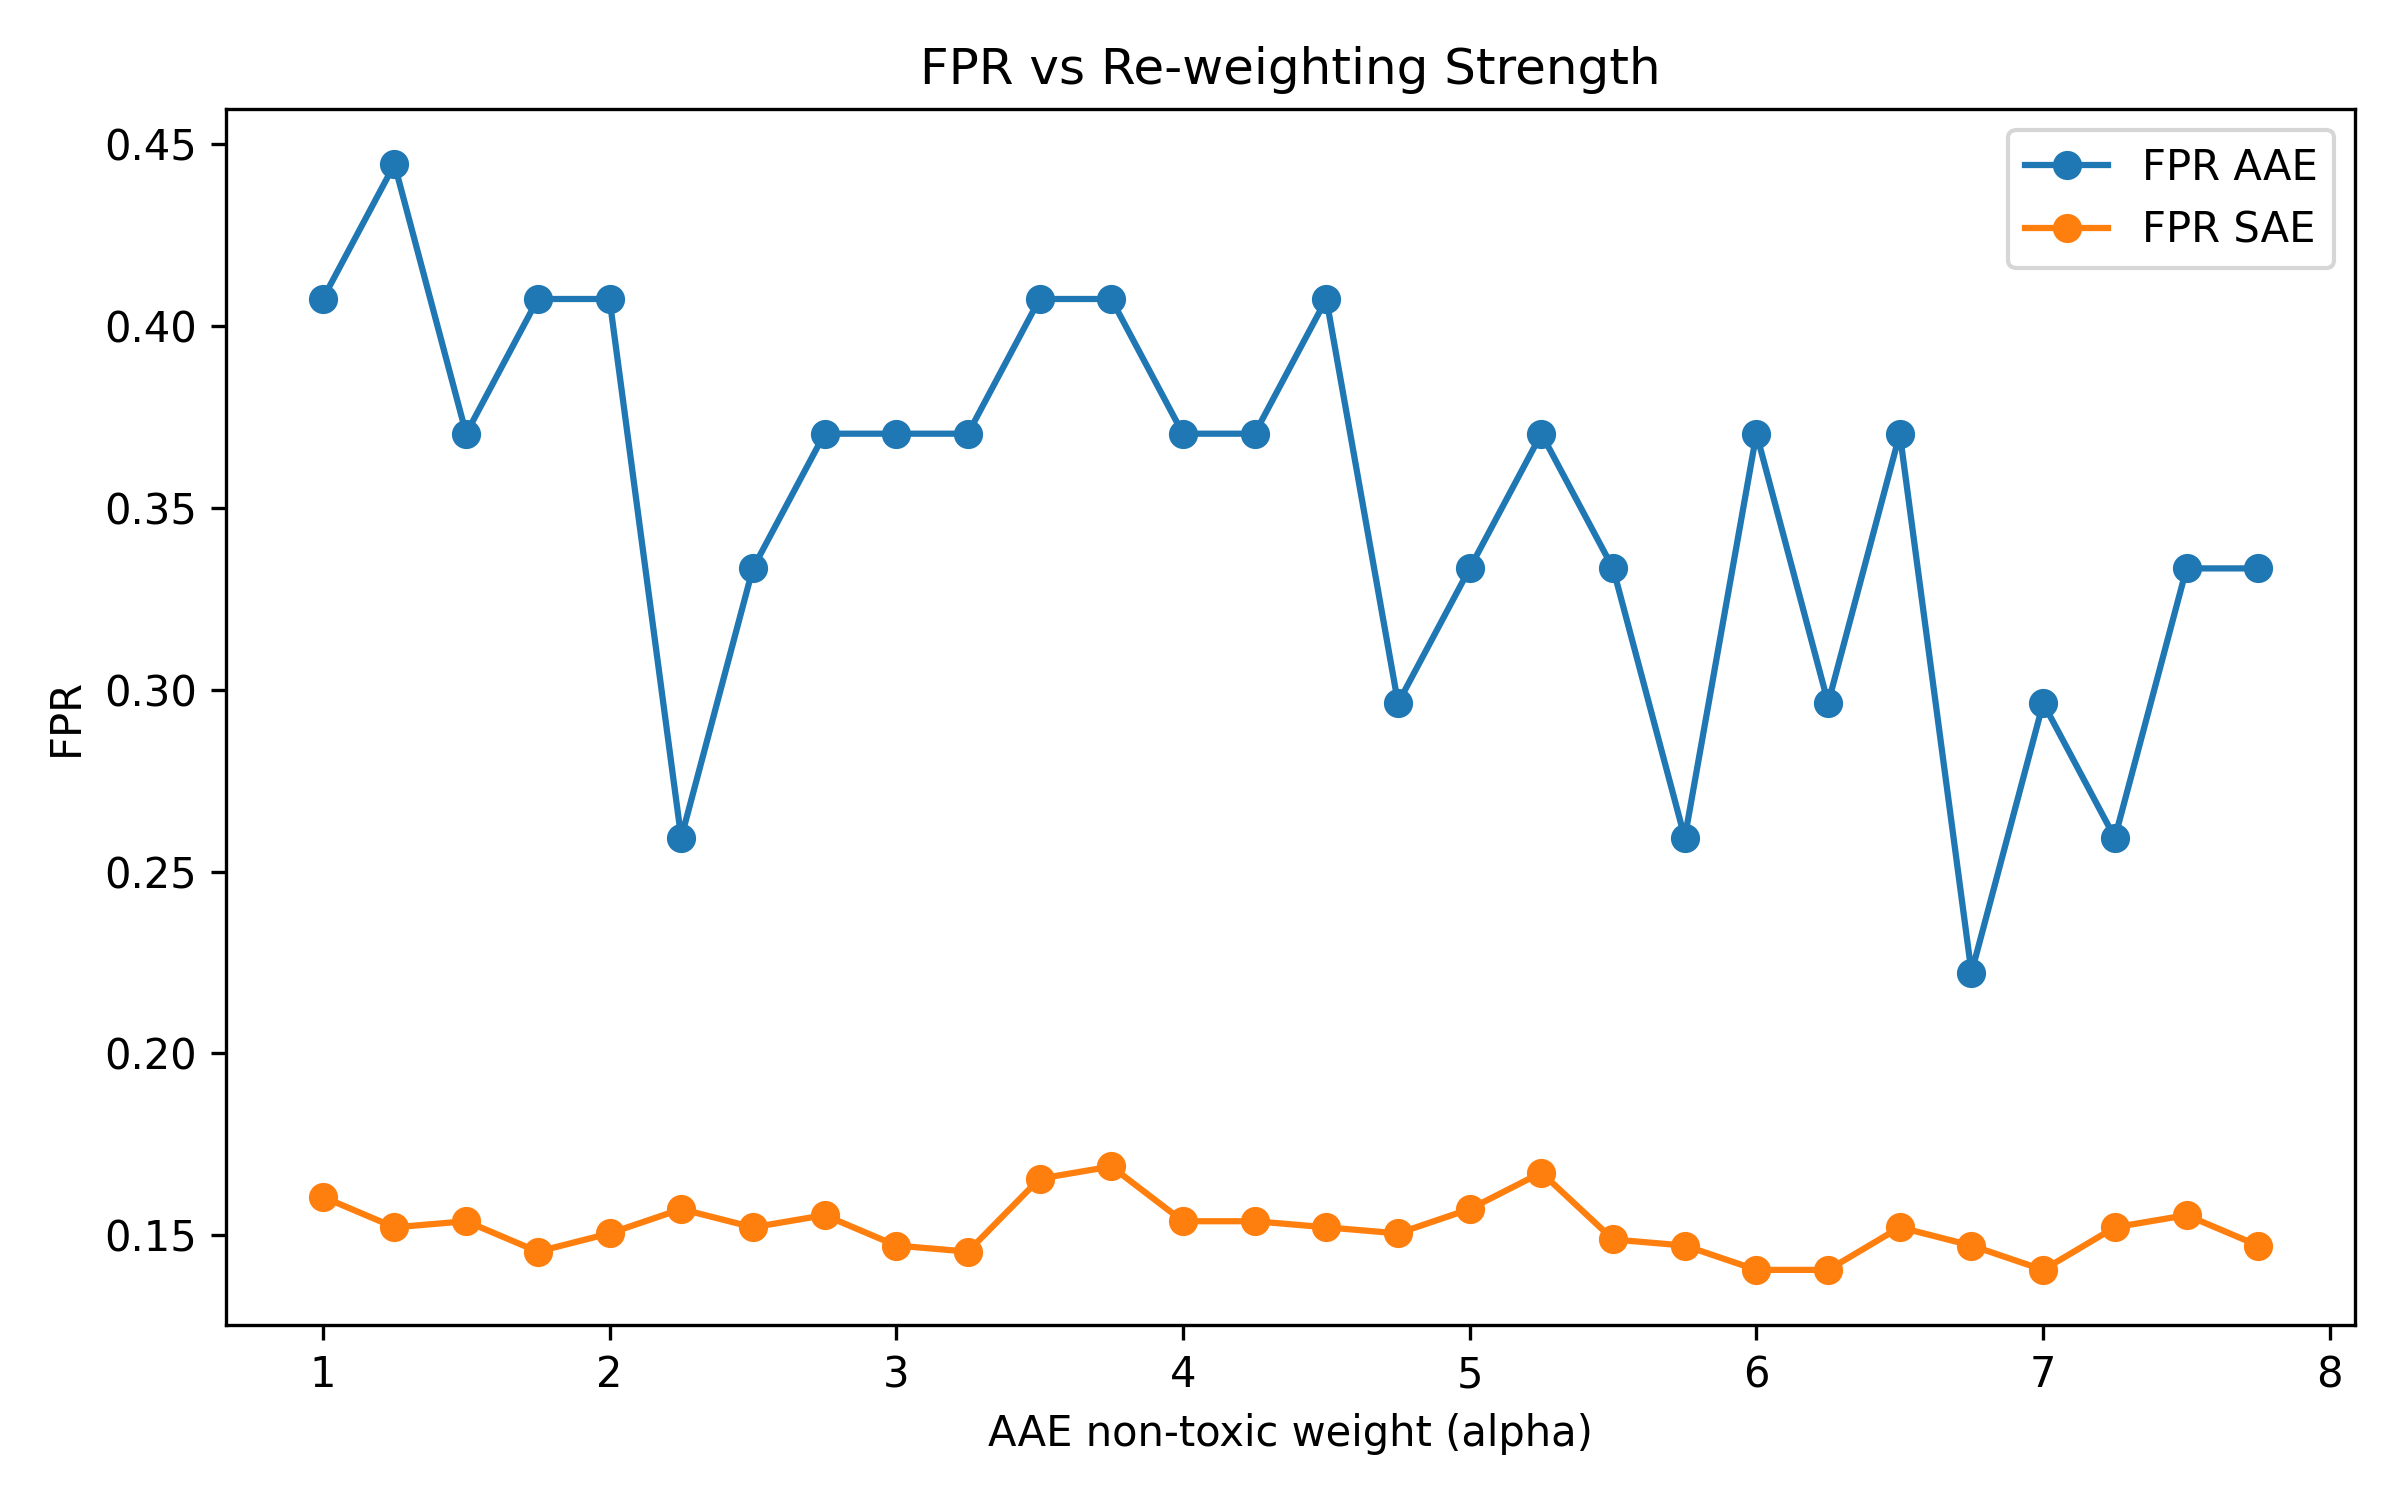
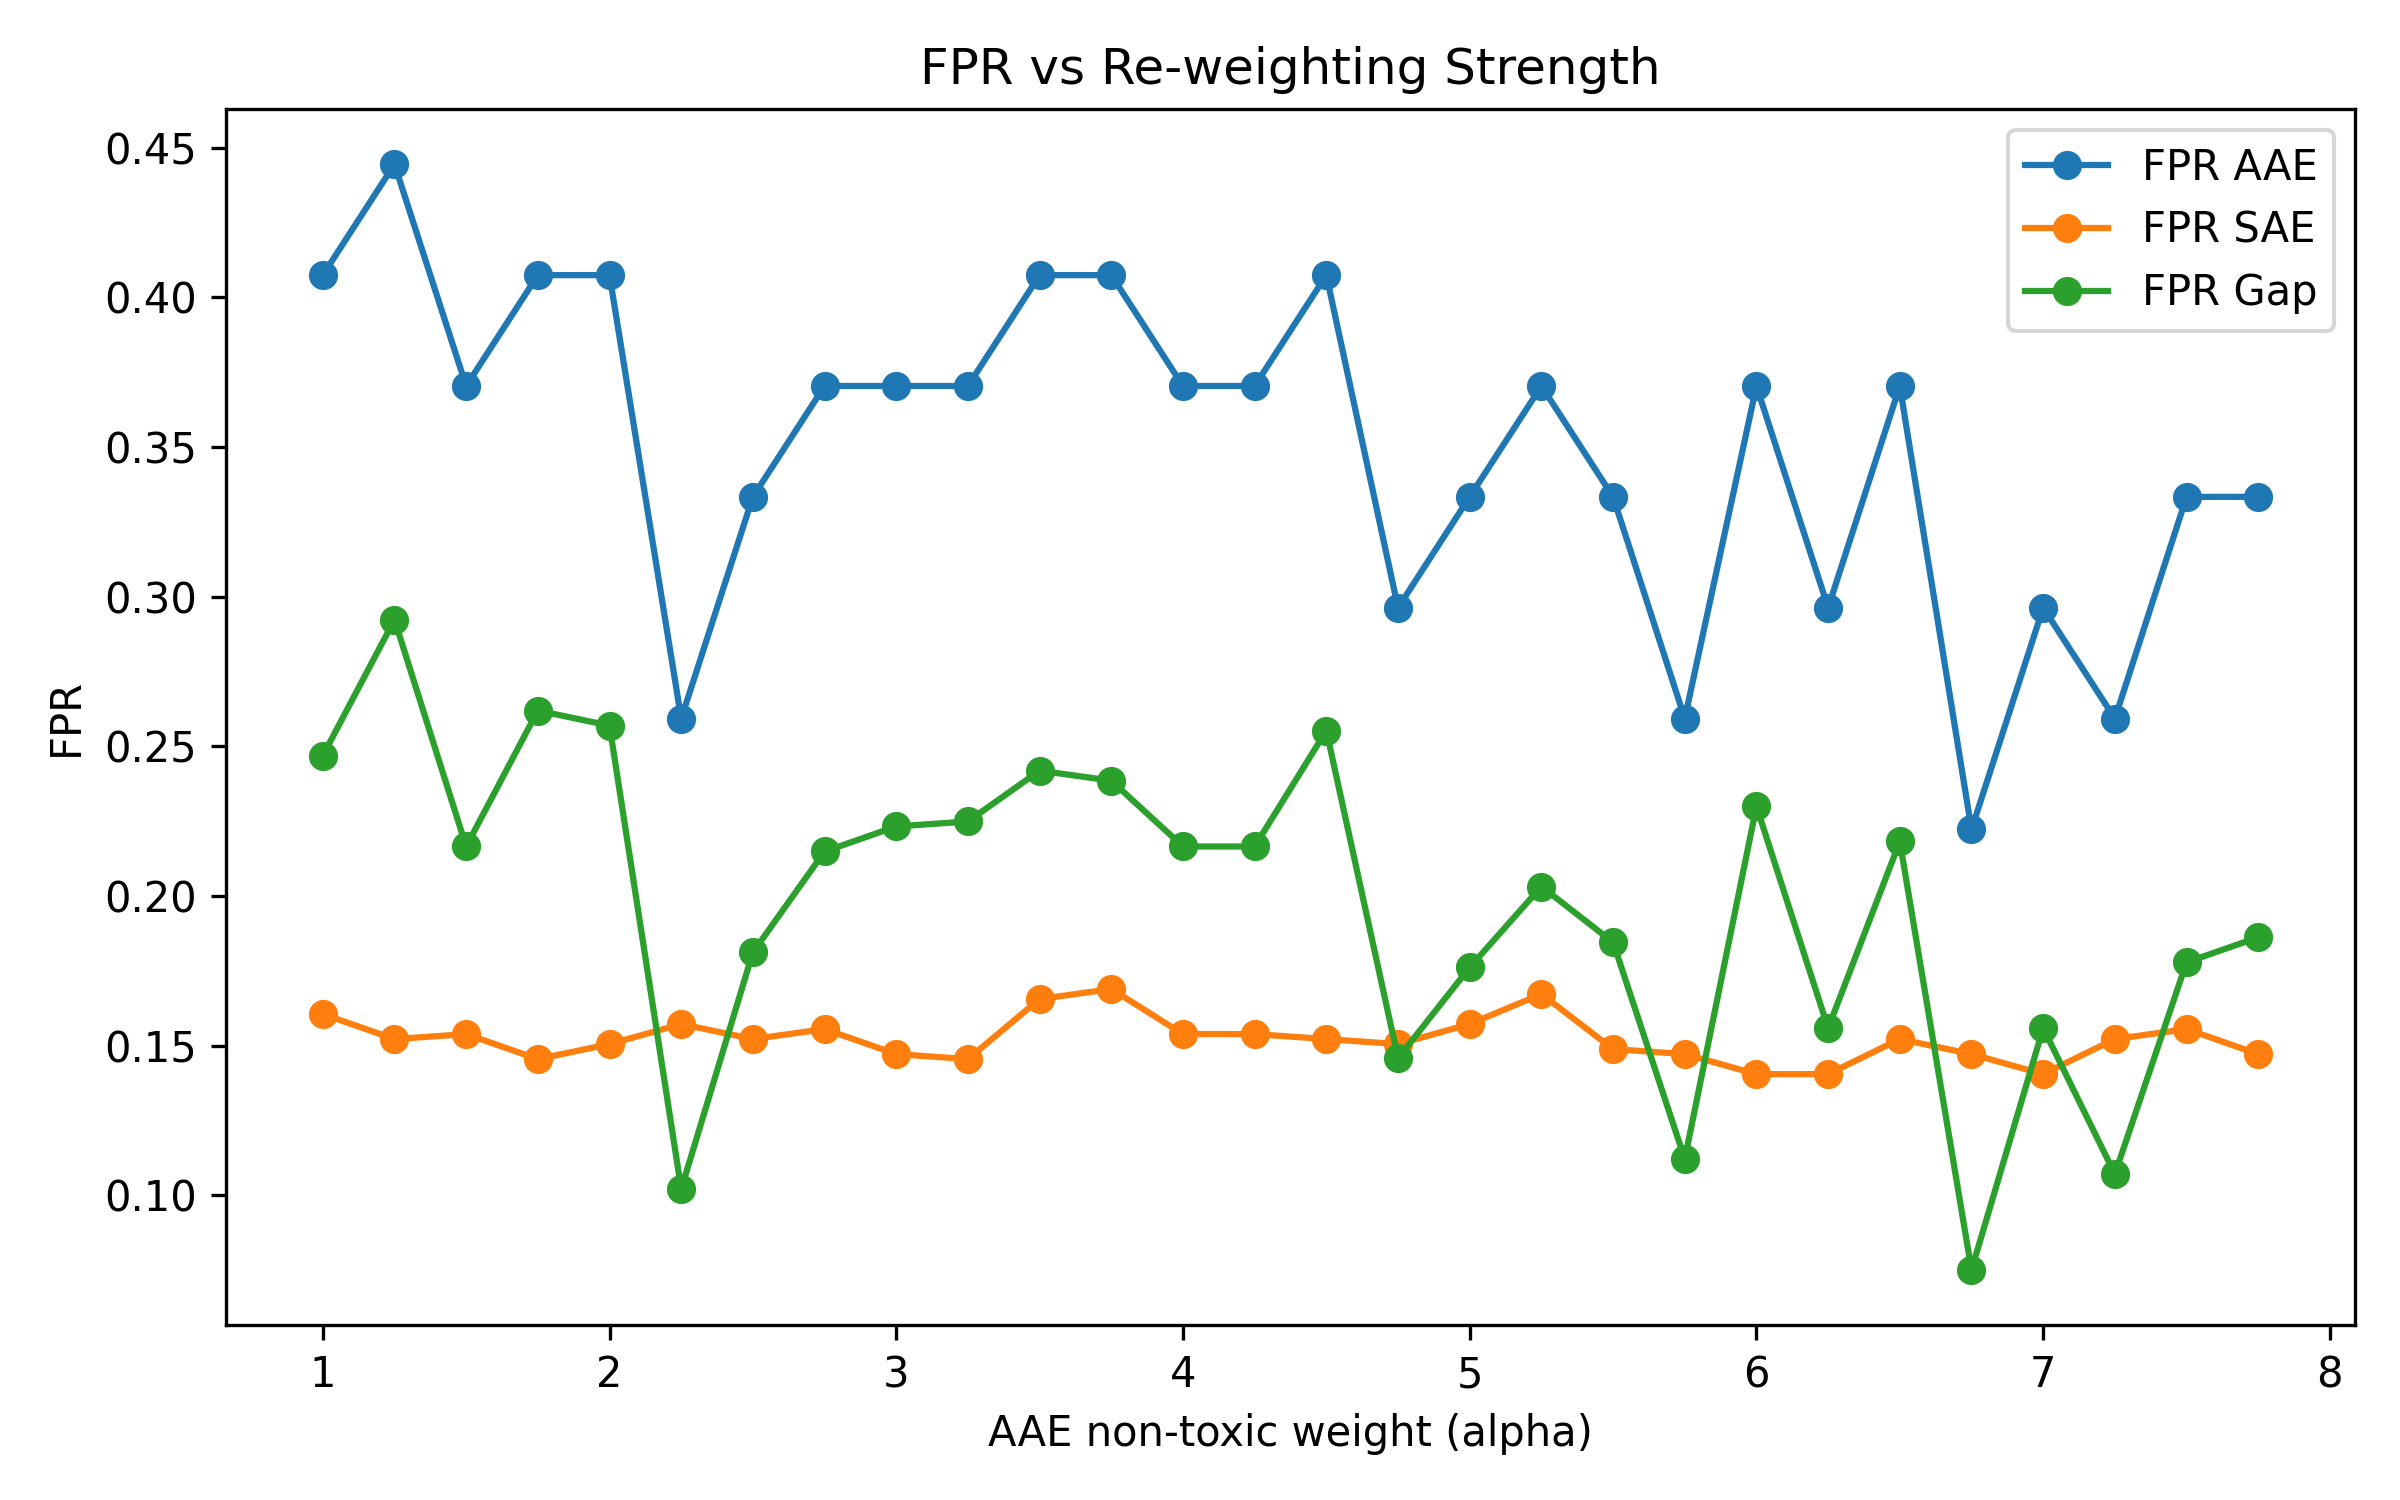
some new plots generated for presentation

diff --git a/src/experiments/xgb_reweighted.py b/src/experiments/xgb_reweighted.py
@@ -44,8 +44,8 @@ from xgboost import XGBClassifier
 # =========================
 # CONFIG
 # =========================
-EMB_DIR = Path("../../data/embeddings")
-DATA_DIR = Path("../../data/processed/twitterAAE")
+EMB_DIR = Path("../../data/embeddings/twitterAAE/balanced/")
+DATA_DIR = Path("../../data/processed/twitterAAE/balanced/")
 RESULTS_DIR = Path("../../data/results/twitterAAE_experiments/xgb")
 MODELS_DIR = Path("../../models")
 
@@ -243,6 +243,7 @@ def main() -> None:
     plt.figure(figsize=(8, 5))
     plt.plot(metrics_df["alpha"], metrics_df["fpr_AAE"], marker="o", label="FPR AAE")
     plt.plot(metrics_df["alpha"], metrics_df["fpr_SAE"], marker="o", label="FPR SAE")
+    plt.plot(metrics_df["alpha"], metrics_df["fpr_gap"], marker="o", label="FPR Gap")
     plt.xlabel("AAE non-toxic weight (alpha)")
     plt.ylabel("FPR")
     plt.title("FPR vs Re-weighting Strength")
@@ -254,6 +255,7 @@ def main() -> None:
     plt.figure(figsize=(8, 5))
     plt.plot(metrics_df["alpha"], metrics_df["fnr_AAE"], marker="o", label="FNR AAE")
     plt.plot(metrics_df["alpha"], metrics_df["fnr_SAE"], marker="o", label="FNR SAE")
+    plt.plot(metrics_df["alpha"], metrics_df["fnr_gap"], marker="o", label="FNR Gap")   
     plt.xlabel("AAE non-toxic weight (alpha)")
     plt.ylabel("FNR")
     plt.title("FNR vs Re-weighting Strength")